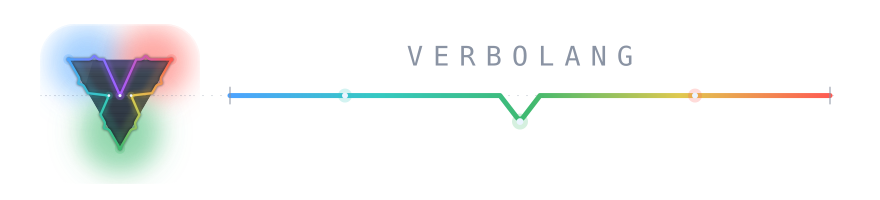
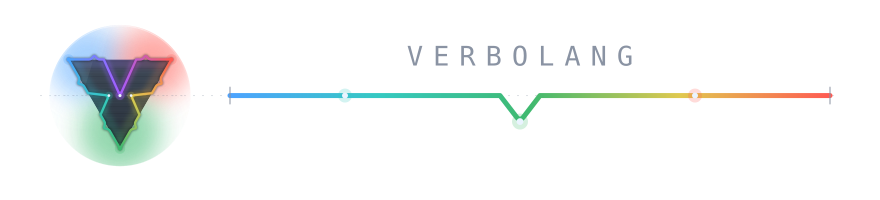
feat(marca): vidro vira disco centrado no nó violeta, pontas inteiras
O painel de vidro retangular (rx=112) vira DISCO de vidro fosco — e o
centro do disco é o nó violeta: o meta no coração da marca, assentado na
fileira do horizonte (256, 229). A linha tracejada vira o diâmetro do
círculo (corda máxima, dy=0).

Raio redimensionado para o disco não estourar o quadro com o centro
subido: glass_r 0.97→0.883 no emblema (r=226, borda superior em y≈3) e
0.875 no ícone (r=28). As luzes das pontas continuam inteiras: halo do
vértice + folga (8 px nos vértices superiores do emblema, 1,5 px no
ícone) não tocam a borda; a aurora e o reflexo diagonal ficam clipados
ao disco.

- validate.py deriva a geometria de import gen (fim dos números mágicos)
- sondas novas: cantos transparentes (o disco é disco), bordas do disco
  exatamente em cy-rg e cx±rg (centro = nó violeta, 6 pontos de alpha) e
  nada brilhante cortado na borda, na direção dos vértices apertados
- banner herda o disco (re-render do gen.EMB); sondas dele intactas
- TUDO OK: 19 sondas sobre o escuro da UI

Changed region(s): [[0.1534, 0.12, 0.2455, 0.39], [0.0307, 0.12, 0.1227, 0.39], [0.092, 0.78, 0.1841, 0.9]]

diff --git a/design/gen.py b/design/gen.py
@@ -1,13 +1,16 @@
 #!/usr/bin/env python3
-"""Gerador da marca VerboLang — triângulo invertido de metal sobre vidro fosco.
+"""Gerador da marca VerboLang — triângulo invertido de metal sobre disco de vidro.
 
 Conceito: triângulo equilátero INVERTIDO (ponto para baixo — ressoa como o V
 da marca original) como placa de metal escovado com ranhuras, apoiado num
-painel de vidro fosco (glass-morphism) com aurora borrada azul-verde-vermelha
-por trás. Cada lado é um traço de osciloscópio que mergulha num V (pássaro);
-os três ápices ficam ALINHADOS na linha do horizonte (tracejada). Cores puras
-nos vértices: azul (sup. esq.), vermelho (sup. dir.), verde (inferior). O nó
-central violeta é o nó principal. Simetria bilateral no eixo vertical.
+disco de vidro fosco (glass-morphism circular) com aurora borrada
+azul-verde-vermelha por trás. Cada lado é um traço de osciloscópio que
+mergulha num V (pássaro); os três ápices ficam ALINHADOS na linha do
+horizonte (tracejada). Cores puras nos vértices: azul (sup. esq.), vermelho
+(sup. dir.), verde (inferior). O nó central violeta é o nó principal.
+Simetria bilateral no eixo vertical. O centro do disco É o nó violeta (o
+meta no coração da marca); o raio (glass_r) garante as luzes das pontas
+inteiras: halo do vértice + folga não tocam a borda.
 """
 import math
 
@@ -92,6 +95,14 @@ def build(pre, size, p):
     sides = [(gid, Side(A, B, C, dict(p, w=w, depth=d, **ov)), cols, main, ov)
              for gid, A, B, cols, w, d, main, ov in specs]
 
+    # disco de vidro: centro NO nó violeta (o meta no coração da marca — o
+    # nó principal assenta na fileira do horizonte) e raio dimensionado para
+    # que as luzes das pontas (halos dos vértices + cap dos traços) fiquem
+    # INTEIRAS dentro do vidro, sem o disco estourar o quadro
+    cx = C[0]
+    cy = ry
+    rg = (size / 2) * p["glass_r"]
+
     freg = f'x="-256" y="-256" width="{size + 512}" height="{size + 512}"'
     grads = []
     for gid, side, (c1, cm, c2), _main, _ov in sides:
@@ -120,7 +131,7 @@ def build(pre, size, p):
     <filter id="{pre}bw" filterUnits="userSpaceOnUse" {freg}><feGaussianBlur stdDeviation="{p['blur_wash']}"/></filter>
     <filter id="{pre}bl1" filterUnits="userSpaceOnUse" {freg}><feGaussianBlur stdDeviation="{p['blur_l1']}"/></filter>
     <filter id="{pre}bl2" filterUnits="userSpaceOnUse" {freg}><feGaussianBlur stdDeviation="{p['blur_l2']}"/></filter>
-    <clipPath id="{pre}pane"><rect x="0" y="0" width="{size}" height="{size}" rx="{p['rx']}"/></clipPath>
+    <clipPath id="{pre}pane"><circle cx="{cx:.2f}" cy="{cy:.2f}" r="{rg:.2f}"/></clipPath>
     <clipPath id="{pre}tri"><polygon points="{fmt(TL)} {fmt(TR)} {fmt(Bot)}"/></clipPath>
 {chr(10).join(grads)}
   </defs>'''
@@ -139,12 +150,12 @@ def build(pre, size, p):
         out.append(f'    <circle cx="{bx:.2f}" cy="{by:.2f}" r="{br:.2f}" fill="{bc}" '
                    f'opacity="{p["blob_op"]}" filter="url(#{pre}bb)"/>')
     out.append('  </g>')
-    # vidro: fill translucido + luz de borda superior + contorno + reflexo diagonal
-    out.append(f'  <rect x="0" y="0" width="{size}" height="{size}" rx="{p["rx"]}" fill="url(#{pre}glass)"/>')
+    # vidro: disco translucido + luz de borda superior + contorno + reflexo diagonal
+    out.append(f'  <circle cx="{cx:.2f}" cy="{cy:.2f}" r="{rg:.2f}" fill="url(#{pre}glass)"/>')
     ins = p["rim_inset"]
-    out.append(f'  <rect x="{ins}" y="{ins}" width="{size - 2 * ins:.2f}" height="{size - 2 * ins:.2f}" '
-               f'rx="{max(p["rx"] - ins, 4):.2f}" fill="none" stroke="url(#{pre}rim)" stroke-width="{p["rim_w"]}"/>')
-    out.append(f'  <rect x="0" y="0" width="{size}" height="{size}" rx="{p["rx"]}" fill="none" '
+    out.append(f'  <circle cx="{cx:.2f}" cy="{cy:.2f}" r="{rg - ins:.2f}" '
+               f'fill="none" stroke="url(#{pre}rim)" stroke-width="{p["rim_w"]}"/>')
+    out.append(f'  <circle cx="{cx:.2f}" cy="{cy:.2f}" r="{rg:.2f}" fill="none" '
                f'stroke="#ffffff" stroke-opacity="{p["border_op"]}" stroke-width="{p["border_w"]}"/>')
     sheen = (size * 0.16, size * 0.44, -size * 0.12, size * 0.16)  # banda diagonal
     out.append(f'  <polygon points="{sheen[0]:.1f},0 {sheen[1]:.1f},0 {sheen[3]:.1f},{size} {sheen[2]:.1f},{size}" '
@@ -168,8 +179,11 @@ def build(pre, size, p):
                f'fill="#ffffff" opacity="{p["metal_sheen_op"]}"/>')
     out.append('  </g>')
 
-    # linha do horizonte: passa pelos tres pontos (apices alinhados), sobre o metal
-    out.append(f'  <line x1="{p["horizon_pad"]}" y1="{ry:.2f}" x2="{size - p["horizon_pad"]}" y2="{ry:.2f}" '
+    # linha do horizonte: passa pelos tres pontos (apices alinhados), sobre o
+    # metal; termina na corda do disco — nenhum traco cortado na borda do vidro
+    dy_h = ry - cy
+    chord = math.sqrt(max(rg * rg - dy_h * dy_h, 0.0)) - p["horizon_pad"]
+    out.append(f'  <line x1="{cx - chord:.2f}" y1="{ry:.2f}" x2="{cx + chord:.2f}" y2="{ry:.2f}" '
                f'stroke="{HORIZON}" stroke-opacity="{p["horizon_op"]}" stroke-width="{p["horizon_w"]}" '
                f'stroke-dasharray="{p["horizon_dash"]}"/>')
 
@@ -219,7 +233,7 @@ def build(pre, size, p):
     return "\n".join(out)
 
 
-EMB = dict(C=(256.0, 208.5), R=190.0, rx=112.0,
+EMB = dict(C=(256.0, 208.5), R=190.0, glass_r=0.883,
            w=40.0, depth=54.0, w_main=52.0, rr=11.0, bw=17.0, bh=11.0,
            stroke=7.5, wash_w=58.0, wash_op=0.19,
            leak1_w=22.0, leak1_op=0.30, leak2_w=9.5, leak2_op=0.50,
@@ -235,7 +249,7 @@ EMB = dict(C=(256.0, 208.5), R=190.0, rx=112.0,
            metal_sheen_op=0.06,
            trace_shadow_w=13.0, trace_shadow_op=0.35, blur_shadow=3.0)
 
-ICO = dict(C=(32.0, 27.5), R=22.0, rx=14.0,
+ICO = dict(C=(32.0, 27.5), R=22.0, glass_r=0.875,
            w=5.0, depth=6.75, w_main=6.5, rr=1.4, bw=3.6, bh=2.0,
            stroke=2.2, wash_w=7.5, wash_op=0.20,
            leak1_w=4.6, leak1_op=0.30, leak2_w=2.2, leak2_op=0.50,

diff --git a/design/validate.py b/design/validate.py
@@ -6,10 +6,13 @@ fundo agora e vidro translucente, tudo e compostos sobre o escuro da UI
 (#11161d) antes de medir — o caso de uso real da marca.
 Sai com exito 0 apenas se todas as verificacoes passarem.
 """
+import math
 import os
 import subprocess
 import sys
 from PIL import Image
+
+import gen  # geometria canônica — as sondas derivam de gen.EMB (sem drift)
 
 HERE = os.path.dirname(os.path.abspath(__file__))
 ROOT = os.path.dirname(HERE)
@@ -21,9 +24,14 @@ FILES = {
     "banner": (os.path.join(ROOT, "docs", "verbolog-banner.svg"), 880),
 }
 
-# geometria esperada (espelha gen.EMB)
-ROW_Y = 208.5 + 190.0 / 4 - 54.0 / 2          # 229.0
+# geometria esperada (derivada de gen.EMB — sem valores mágicos)
+_EMB = gen.EMB
+ROW_Y = gen.row_y(_EMB)                       # 229.0 — fileira dos ápices
+CX, CY = _EMB["C"][0], ROW_Y                  # centro do disco = nó violeta
+RG = 512 / 2 * _EMB["glass_r"]                # raio do disco de vidro
 APICES = {(220.5, ROW_Y), (256.0, ROW_Y), (291.5, ROW_Y)}
+TL_X, TL_Y = _EMB["C"][0] - _EMB["R"] * gen.SQ3_2, _EMB["C"][1] - _EMB["R"] / 2
+TR_X = _EMB["C"][0] + _EMB["R"] * gen.SQ3_2
 
 def render(key):
     svg, w = FILES[key]
@@ -96,6 +104,45 @@ def main():
         print(f"  emblema [{'OK' if ok else 'FALHOU'}] {name}: {c}")
         if not ok:
             failures.append(name)
+
+    # vidro CIRCULAR: os cantos do quadro ficam FORA do disco (transparentes)
+    raw = Image.open(os.path.join(HERE, "preview-emblem.png")).convert("RGBA")
+    cantos = [raw.getpixel(pt)[3] for pt in ((8, 8), (503, 8), (8, 503), (503, 503))]
+    ok = all(a < 10 for a in cantos)
+    print(f"  emblema [{'OK' if ok else 'FALHOU'}] disco de vidro (cantos fora do circulo): alpha={cantos}")
+    if not ok:
+        failures.append("vidro nao e circular (cantos com tinta)")
+
+    # centro do disco = NO VIOLETA: a borda do disco deve passar exatamente
+    # onde a geometria manda (topo em cy-rg ~3; laterais em cx±rg ~30/482)
+    bordas = {
+        "topo y=1":  raw.getpixel((int(CX), 1))[3],
+        "topo y=6":  raw.getpixel((int(CX), 6))[3],
+        "esq x=27":  raw.getpixel((int(CX - RG) - 3, int(CY)))[3],
+        "esq x=33":  raw.getpixel((int(CX - RG) + 3, int(CY)))[3],
+        "dir x=485": raw.getpixel((int(CX + RG) + 3, int(CY)))[3],
+        "dir x=479": raw.getpixel((int(CX + RG) - 3, int(CY)))[3],
+    }
+    fora = bordas["topo y=1"] < 10 and bordas["esq x=27"] < 10 and bordas["dir x=485"] < 10
+    dentro = bordas["topo y=6"] > 15 and bordas["esq x=33"] > 15 and bordas["dir x=479"] > 15
+    ok = fora and dentro
+    print(f"  emblema [{'OK' if ok else 'FALHOU'}] disco centrado no no violeta ({CX:.0f},{CY:.0f}): {bordas}")
+    if not ok:
+        failures.append("disco fora de centro (bordas nao batem com cx±rg, cy-rg)")
+
+    # luzes das pontas INTEIRAS: amostra junto a borda do disco, na direcao dos
+    # vertices superiores (pontos mais apertados) — vidro com halo tenue, nada
+    # brilhante cortado no raio
+    for nome, (vx, vy) in (("borda do disco p/ vertice azul", (TL_X, TL_Y)),
+                           ("borda do disco p/ vertice vermelho", (TR_X, TL_Y))):
+        dx, dy = vx - CX, vy - CY
+        d = math.hypot(dx, dy)
+        sx, sy = CX + dx / d * (RG - 6), CY + dy / d * (RG - 6)
+        c = avg(px, sx, sy, r=2)
+        ok = lum(c) < 160
+        print(f"  emblema [{'OK' if ok else 'FALHOU'}] {nome} ({sx:.0f},{sy:.0f}): {c} (lum {lum(c):.0f})")
+        if not ok:
+            failures.append(nome)
 
     # --- icone a 32 px (favicon, sobre escuro) ---
     ic = comp(render("icon")).resize((32, 32))

diff --git a/design/finalize.py b/design/finalize.py
@@ -17,7 +17,7 @@ icon = gen.build("i", 64, gen.ICO)
 icon = icon.replace(
     '<svg xmlns',
     header("verbolog.svg — marca do projeto VerboLang.\n"
-           "  Triângulo de metal escovado com ranhuras sobre painel de vidro\n"
+           "  Triângulo de metal escovado com ranhuras sobre disco de vidro\n"
            "  fosco (aurora borrada azul-verde-vermelha) — ressoa como o V da\n"
            "  marca. Cada lado é um traço de osciloscópio que mergulha num V\n"
            "  (um pássaro); os três ápices formam uma fileira alinhada sobre a\n"
@@ -30,13 +30,14 @@ emb = emb.replace(
     '<svg xmlns',
     header("verbolog-triangle.svg — emblema mestre da marca VerboLang.\n"
            "  Triângulo invertido (ponta do V para baixo, verde) em metal\n"
-           "  escovado com ranhuras, sobre painel de vidro fosco com aurora\n"
-           "  borrada azul-verde-vermelha. Vértices: azul #4da3ff (sup. esq.),\n"
-           "  vermelho #ff5a52 (sup. dir.), verde #3fb96f. Arestas com stop\n"
-           "  médio (teal, amarelo, violeta). Os três pássaros (dips) têm ápices\n"
-           "  alinhados na linha tracejada do horizonte; o nó violeta central é\n"
-           "  o nó principal. O vazamento interno mantém o centro sóbrio — o\n"
-           "  triângulo vaza para dentro, nunca se fecha. Gerador: design/gen.py.") + '<svg xmlns', 1)
+           "  escovado com ranhuras, sobre disco de vidro fosco com aurora\n"
+           "  borrada azul-verde-vermelha. O CENTRO DO DISCO é o nó violeta\n"
+           "  (o meta no coração da marca), na fileira do horizonte. Vértices:\n"
+           "  azul #4da3ff (sup. esq.), vermelho #ff5a52 (sup. dir.), verde\n"
+           "  #3fb96f. Arestas com stop médio (teal, amarelo, violeta). Os três\n"
+           "  pássaros (dips) têm ápices alinhados na linha tracejada do\n"
+           "  horizonte. O raio do disco (glass_r) mantém as luzes das pontas\n"
+           "  inteiras — nada corta na borda. Gerador: design/gen.py.") + '<svg xmlns', 1)
 open(os.path.join(ROOT, "docs", "verbolog-triangle.svg"), "w").write(emb)
 
 # 3) banner

diff --git a/design/README.md b/design/README.md
@@ -11,11 +11,16 @@ mantendo os lados em degradê sobre a placa.
 
 ## Conceito
 
-- **Painel de vidro fosco (glass-morphism)**: aurora borrada
-  azul-verde-vermelha atrás de um painel translúcido (o blur do
+- **Disco de vidro fosco (glass-morphism)**: aurora borrada
+  azul-verde-vermelha atrás de um disco translúcido (o blur do
   `backdrop-filter` é simulado desfocando as manchas — renderiza em
   qualquer lugar), com luz de borda superior, contorno claro e reflexo
-  diagonal.
+  diagonal. **O centro do disco é o nó violeta** (o meta no coração da
+  marca, na fileira do horizonte). O raio (`glass_r`, fração do
+  semiquadro) é dimensionado para as luzes das pontas ficarem inteiras:
+  halo do vértice + folga (~8 px no emblema) não tocam a borda do disco,
+  a linha do horizonte termina na própria corda do círculo — nada
+  cortado no raio.
 - **Placa de metal escovado no lugar do preto**: o interior do triângulo é
   um aço frio (`#3f4a58→#252d37`) com ranhuras horizontais (o mesmo eixo do
   horizonte) e um brilho diagonal de metal.
@@ -68,7 +73,7 @@ python3 design/validate.py   # renderiza com inkscape e roda sondas de pixel
 Todos os parâmetros de desenho estão nos dicionários `EMB` e `ICO` em
 `gen.py` (raio, largura/profundidade dos dips — inclusive `w_main`/`depth`
 do pássaro central, alinhamento via `row_y()`, pulsos, wash, vazamentos,
-nós, linha do horizonte, vidro: `glass_*`/`blob_*`/`sheen_op`, metal:
-`metal_*`/`groove_*`/`trace_shadow_*`) e a paleta no topo do arquivo. O
-banner é composto em `banner.py`, ancorado na altura da fileira
-(`gen.row_y`).
+nós, linha do horizonte, disco de vidro: `glass_r`/`glass_*`/`blob_*`/
+`sheen_op`, metal: `metal_*`/`groove_*`/`trace_shadow_*`) e a paleta no topo
+do arquivo. O banner é composto em `banner.py`, ancorado na altura da
+fileira (`gen.row_y`).
